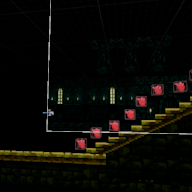
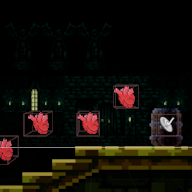
Inventory - delegate call to widget when picking stuff up

diff --git a/Source/TG/UI/ExplorerMode/InventoryWidget.cpp b/Source/TG/UI/ExplorerMode/InventoryWidget.cpp
@@ -9,19 +9,24 @@
 #include "Components/Image.h"
 #include "Components/SizeBox.h"
 #include "TG/Controllers/ExploreController.h"
+#include "TG/TGCharacter.h"
+#include "TG/Item/Item.h"
+#include "TG/Components/InventoryComponent.h"
 
 void UInventoryWidget::NativeConstruct()
 {
 	Super::NativeConstruct();
 	InitializeRefsInBP();
-
+	InitializeRefs();
 	AddDelegateBindings();
-
-
 	GetStartingSlot();
 
-// 	FTimerHandle dsa;
-// 	GetWorld()->GetTimerManager().SetTimer(dsa, this, &UInventoryWidget::CreateInventorySlots, 1.f, false);
+
+
+// 	FTimerHandle invWidgetInitializeWithTimer;
+// 	GetWorld()->GetTimerManager().SetTimer(invWidgetInitializeWithTimer, this, &UInventoryWidget::InitializeWithTimer, 0.5f, false);
+
+
 }
 
 void UInventoryWidget::NativePreConstruct()
@@ -63,10 +68,25 @@ void UInventoryWidget::CreateInventorySlots()
 	HighlightSelectedSlot();
 }
 
+void UInventoryWidget::InitializeWithTimer()
+{
+
+}
+
 void UInventoryWidget::AddDelegateBindings()
 {
-	AExploreController* pc = Cast<AExploreController>(GetWorld()->GetFirstPlayerController());
-	pc->delegateInventoryMove.AddDynamic(this, &UInventoryWidget::MoveInInventory);
+	refExplorePlayerController = Cast<AExploreController>(GetWorld()->GetFirstPlayerController());
+	refExplorePlayerController->delegateInventoryMove.AddDynamic(this, &UInventoryWidget::MoveInInventory);
+	//this is initialized with InitializeRefs, which at least atm is called before this so its safe
+	refPlayerCharacter->GetInventoryComponent()->delegateInventoryUpdate.AddDynamic(this, &UInventoryWidget::UpdateItemsFromPlayerInventory);
+
+	
+}
+
+void UInventoryWidget::InitializeRefs()
+{
+	//init player pawn ref
+	refPlayerCharacter = Cast<ATGCharacter>(GetWorld()->GetFirstPlayerController()->GetPawn());
 }
 
 void UInventoryWidget::MoveInInventory(EMoveDirections iMoveDir)
@@ -144,3 +164,9 @@ void UInventoryWidget::GetStartingSlot()
 	FVector2D midVec = FVector2D(l_column, l_rows);
 	currentlyActiveSlot = midVec; //replace this
 }
+
+void UInventoryWidget::UpdateItemsFromPlayerInventory(TArray<class AItem*> iPlayerInventory)
+{
+	UE_LOG(LogTemp, Warning, TEXT(" UInventoryWidget::UpdateItemsFromPlayerInventory()"));
+}
+

diff --git a/Source/TG/UI/ExplorerMode/InventoryWidget.h b/Source/TG/UI/ExplorerMode/InventoryWidget.h
@@ -26,6 +26,11 @@ public:
 	UPROPERTY(EditAnywhere)
 		TMap<FVector2D, class UInventorySlot*> mapRefInventorySlots;
 
+	UPROPERTY()
+	class ATGCharacter* refPlayerCharacter;
+	UPROPERTY()
+		class AExploreController* refExplorePlayerController;
+
 protected:
 	virtual void NativeConstruct() override;
 
@@ -34,8 +39,9 @@ protected:
 
 	UFUNCTION(BlueprintCallable)
 	void CreateInventorySlots();
-
+	void InitializeWithTimer();
 	void AddDelegateBindings();
+	void InitializeRefs();
 	
 	UFUNCTION()
 	void MoveInInventory(EMoveDirections iMoveDir);
@@ -56,5 +62,7 @@ protected:
 	void SelectNeighbourSlot(FVector2D iTarget);
 	void GetStartingSlot();
 
+	UFUNCTION()
+	void UpdateItemsFromPlayerInventory(TArray<class AItem*> iPlayerInventory);
 
 };

diff --git a/Source/TG/Components/InventoryComponent.h b/Source/TG/Components/InventoryComponent.h
@@ -6,6 +6,7 @@
 #include "Components/ActorComponent.h"
 #include "InventoryComponent.generated.h"
 
+DECLARE_DYNAMIC_MULTICAST_DELEGATE_OneParam(FInventoryUpdate, TArray<class AItem*>, refItemInventory);
 
 UCLASS( ClassGroup=(Custom), meta=(BlueprintSpawnableComponent) )
 class TG_API UInventoryComponent : public UActorComponent
@@ -31,8 +32,10 @@ public:
 
 	void DeleteItemFromIndex(int32 iIndex);
 	
+	TArray<class AItem*> GetItemInventory();
+
 	UPROPERTY(VisibleAnywhere)
 	int32 inventoryMaxSize;
 
-
+	FInventoryUpdate delegateInventoryUpdate;
 };

diff --git a/Source/TG/Components/InventoryComponent.cpp b/Source/TG/Components/InventoryComponent.cpp
@@ -35,6 +35,10 @@ bool UInventoryComponent::AddItemToInventory(class AItem* iItem)
 	 
 	refItemInventory.Add(iItem);
 	UE_LOG(LogTemp, Error, TEXT("Added item successfully."));
+	//also update player UI via delegate
+	delegateInventoryUpdate.Broadcast(refItemInventory);
+
+
 	return true;
 }
 
@@ -42,4 +46,10 @@ void UInventoryComponent::DeleteItemFromIndex(int32 iIndex)
 {
 
 }
+
+TArray<class AItem*> UInventoryComponent::GetItemInventory()
+{
+	return refItemInventory;
+}
+
 

diff --git a/Source/TG/Item/Item.h b/Source/TG/Item/Item.h
@@ -7,6 +7,11 @@
 #include "Engine/DataTable.h"
 #include "Item.generated.h"
 
+/*Items are atm just set invisible when looted and their pointers stored in the character's 
+inventoryComponent, so careful with that, I probably have to store each item we are carrying
+so they come with the character when we change levels, or a global place to store all the items
+or something*/
+
 UENUM(BlueprintType)
 enum class EItemRarity : uint8
 {

diff --git a/Source/TG/UI/ExplorerMode/ExplorerModeScreen.h b/Source/TG/UI/ExplorerMode/ExplorerModeScreen.h
@@ -13,5 +13,14 @@ UCLASS()
 class TG_API UExplorerModeScreen : public UUserWidget
 {
 	GENERATED_BODY()
+public:
 	
+	UFUNCTION(BlueprintImplementableEvent)
+		void InitializeReferencesInBP();
+
+	UPROPERTY(VisibleAnywhere, BlueprintReadWrite)
+		class UInventoryWidget* refInventoryWidget;
+protected:
+	virtual void NativeConstruct() override;
+
 };

diff --git a/Source/TG/UI/ExplorerMode/ExplorerModeScreen.cpp b/Source/TG/UI/ExplorerMode/ExplorerModeScreen.cpp
@@ -2,4 +2,10 @@
 
 
 #include "ExplorerModeScreen.h"
+#include "InventoryWidget.h"
 
+void UExplorerModeScreen::NativeConstruct()
+{
+	Super::NativeConstruct();
+	InitializeReferencesInBP();
+}

diff --git a/Source/TG/Libraries/InventoryLibrary.cpp b/Source/TG/Libraries/InventoryLibrary.cpp
@@ -49,3 +49,6 @@ FInventoryGridRowsColumns UInventoryLibrary::GetInventoryGridRowsColumns(EInvent
 
 	return l_invSize;
 }
+
+
+
